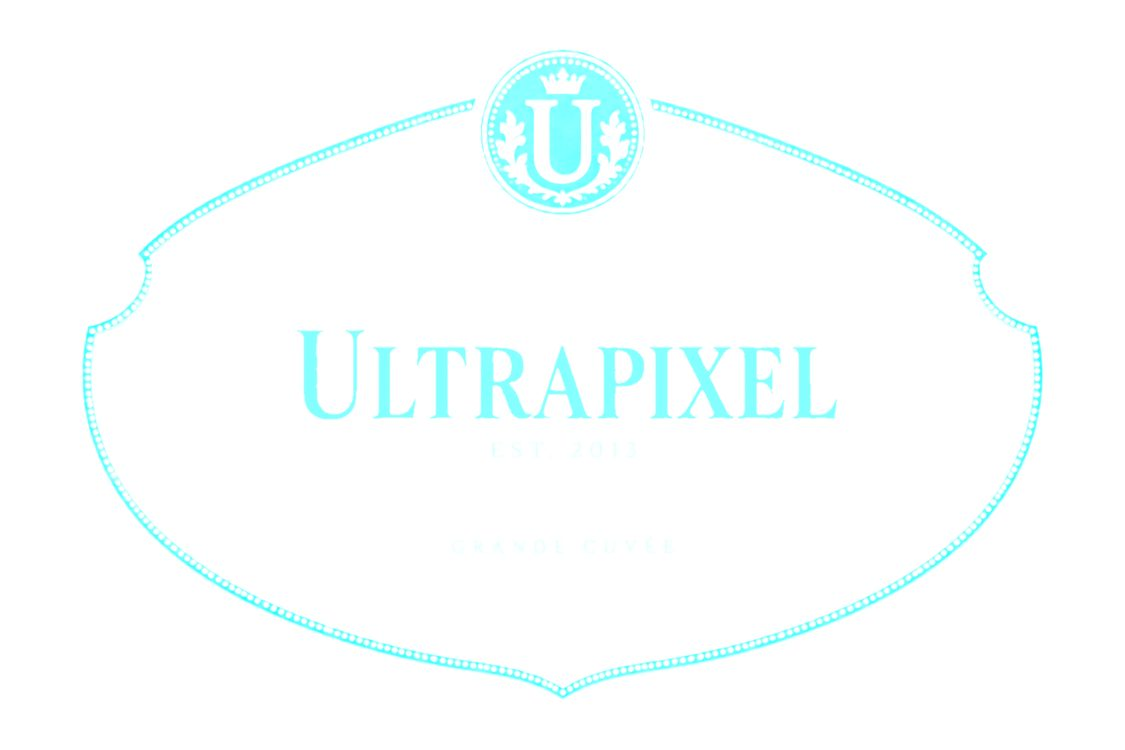
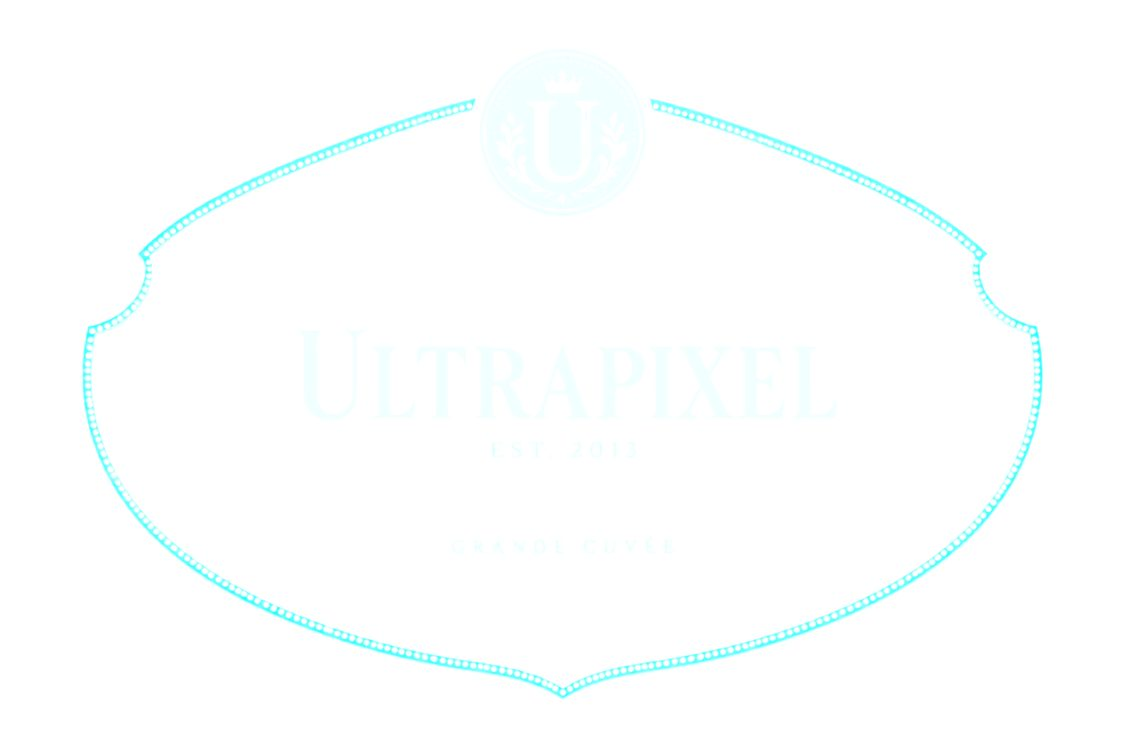
French film: visible screen-printing pass, colour-check points inside the label
Claude-Session: https://claude.ai/code/session_01BG1W2YxVwjxrMvYbMgt4bm

Changed region(s): [[0.2489, 0.4293, 0.7467, 0.5827], [0.4044, 0.0613, 0.5911, 0.3067]]

diff --git a/fr/index.html b/fr/index.html
@@ -160,10 +160,7 @@
     <div class="ribbon" id="ribbon" style="background:linear-gradient(100deg,#7A5A1C,#C99A2E 25%,#FFF3C4 48%,#C99A2E 62%,#7A5A1C)"></div>
     <div class="sq" id="sq"></div>
     <div class="scan" id="scan"></div>
-    <div class="qc" style="left:12%;top:24%" data-y=".24"></div>
-    <div class="qc" style="left:54%;top:53%" data-y=".53"></div>
-    <div class="qc" style="left:16%;top:72%" data-y=".72"></div>
-   </div>
+<div class="qc" style="left:30%;top:31%" data-y="0.31"></div><div class="qc" style="left:61%;top:52%" data-y="0.52"></div><div class="qc" style="left:27%;top:70%" data-y="0.7"></div>   </div>
   </div>
 
   <div class="panel hero on" data-c="0"><span class="mono">Label / Material system 001</span><h1>Nous faisons des étiquettes <em>impossibles à ignorer.</em></h1><p>Étiquettes premium et techniques pour les marques exigeantes. Livraison standard et express, partout en France.</p><div class="ctas"><a class="cta pill" href="/fr/work/">Voir des exemples ↗</a><a class="cta pill ghost" href="/fr/samples/">Demander des échantillons ↗</a><a class="cta" href="/fr/contact/">Nous contacter →</a></div><div class="sys"><span class="mi">Substrate / Digital / Screen / Foil / Relief / Cut</span><span class="mi dim">Vins et spiritueux · Alimentaire · Cosmétique · Nutraceutique · Pharma · Industrie et chimie</span></div></div>

diff --git a/de/index.html b/de/index.html
@@ -160,10 +160,7 @@
     <div class="ribbon" id="ribbon" style="background:linear-gradient(100deg,#7A5A1C,#C99A2E 25%,#FFF3C4 48%,#C99A2E 62%,#7A5A1C)"></div>
     <div class="sq" id="sq"></div>
     <div class="scan" id="scan"></div>
-    <div class="qc" style="left:12%;top:24%" data-y=".24"></div>
-    <div class="qc" style="left:54%;top:53%" data-y=".53"></div>
-    <div class="qc" style="left:16%;top:72%" data-y=".72"></div>
-   </div>
+<div class="qc" style="left:12%;top:24%" data-y="0.24"></div><div class="qc" style="left:54%;top:53%" data-y="0.53"></div><div class="qc" style="left:16%;top:72%" data-y="0.72"></div>   </div>
   </div>
 
   <div class="panel hero on" data-c="0"><span class="mono">Label / Material system 001</span><h1>Wir machen Etiketten, <em>die man nicht übersehen kann.</em></h1><p>Hochwertige und technische Etiketten, entwickelt in Italien für Marken in ganz Europa.</p><div class="ctas"><a class="cta pill" href="/de/work/">Arbeiten ansehen ↗</a><a class="cta pill ghost" href="/de/samples/">Muster anfordern ↗</a><a class="cta" href="/de/contact/">Kontakt aufnehmen →</a></div><div class="sys"><span class="mi">Substrate / Digital / Screen / Foil / Relief / Cut</span><span class="mi dim">Wein und Spirituosen · Lebensmittel · Kosmetik · Nahrungsergänzung · Pharma · Industrie und Chemie</span></div></div>

diff --git a/index.html b/index.html
@@ -161,10 +161,7 @@
     <div class="ribbon" id="ribbon" style="background:linear-gradient(100deg,#7A5A1C,#C99A2E 25%,#FFF3C4 48%,#C99A2E 62%,#7A5A1C)"></div>
     <div class="sq" id="sq"></div>
     <div class="scan" id="scan"></div>
-    <div class="qc" style="left:12%;top:24%" data-y=".24"></div>
-    <div class="qc" style="left:54%;top:53%" data-y=".53"></div>
-    <div class="qc" style="left:16%;top:72%" data-y=".72"></div>
-   </div>
+<div class="qc" style="left:12%;top:24%" data-y="0.24"></div><div class="qc" style="left:54%;top:53%" data-y="0.53"></div><div class="qc" style="left:16%;top:72%" data-y="0.72"></div>   </div>
   </div>
 
   <div class="panel hero on" data-c="0"><span class="mono">Label / Material system 001</span><h1>Facciamo etichette <em>impossibili da ignorare.</em></h1><p>Etichette premium e tecniche progettate in Italia per marchi in tutta Europa.</p><div class="ctas"><a class="cta pill" href="/work/">Guarda i lavori ↗</a><a class="cta pill ghost" href="/samples/">Richiedi campioni ↗</a><a class="cta" href="/contact/">Parla con noi →</a></div><div class="sys"><span class="mi">Substrate / Digital / Screen / Foil / Relief / Cut</span><span class="mi dim">Vino e distillati · Alimentare · Cosmetica · Nutraceutica · Farmaceutico · Industriale e chimico</span></div></div>

diff --git a/en/index.html b/en/index.html
@@ -160,10 +160,7 @@
     <div class="ribbon" id="ribbon" style="background:linear-gradient(100deg,#7A5A1C,#C99A2E 25%,#FFF3C4 48%,#C99A2E 62%,#7A5A1C)"></div>
     <div class="sq" id="sq"></div>
     <div class="scan" id="scan"></div>
-    <div class="qc" style="left:12%;top:24%" data-y=".24"></div>
-    <div class="qc" style="left:54%;top:53%" data-y=".53"></div>
-    <div class="qc" style="left:16%;top:72%" data-y=".72"></div>
-   </div>
+<div class="qc" style="left:12%;top:24%" data-y="0.24"></div><div class="qc" style="left:54%;top:53%" data-y="0.53"></div><div class="qc" style="left:16%;top:72%" data-y="0.72"></div>   </div>
   </div>
 
   <div class="panel hero on" data-c="0"><span class="mono">Label / Material system 001</span><h1>We make labels <em>impossible to ignore.</em></h1><p>Premium and technical labels engineered in Italy for brands across Europe.</p><div class="ctas"><a class="cta pill" href="/en/work/">Explore our work ↗</a><a class="cta pill ghost" href="/en/samples/">Request samples ↗</a><a class="cta" href="/en/contact/">Talk to us →</a></div><div class="sys"><span class="mi">Substrate / Digital / Screen / Foil / Relief / Cut</span><span class="mi dim">Wine &amp; Spirits · Food · Cosmetics · Nutraceuticals · Pharma · Industrial &amp; Chemical</span></div></div>

diff --git a/src/film.html b/src/film.html
@@ -25,10 +25,7 @@
     <div class="ribbon" id="ribbon" style="background:linear-gradient(100deg,#7A5A1C,#C99A2E 25%,#FFF3C4 48%,#C99A2E 62%,#7A5A1C)"></div>
     <div class="sq" id="sq"></div>
     <div class="scan" id="scan"></div>
-    <div class="qc" style="left:12%;top:24%" data-y=".24"></div>
-    <div class="qc" style="left:54%;top:53%" data-y=".53"></div>
-    <div class="qc" style="left:16%;top:72%" data-y=".72"></div>
-   </div>
+{{QC}}   </div>
   </div>
 
   {{HERO}}

diff --git a/src/procfr.py b/src/procfr.py
@@ -39,7 +39,8 @@ gold=keep[cc]
 ink=L&(v<.52)&~gold
 # screen relief = the house name
 box=np.zeros((H,W),bool);box[int(.40*H):int(.60*H),int(.22*W):int(.78*W)]=True
-screen=cv2.morphologyEx((ink&box).astype(np.uint8),cv2.MORPH_CLOSE,np.ones((3,3),np.uint8))>0
+yy,xx=np.mgrid[0:H,0:W];med=((xx-752)**2+(yy-163)**2)<122**2      # the medallion ground is screen-printed too
+screen=cv2.morphologyEx((ink&(box|med)).astype(np.uint8),cv2.MORPH_CLOSE,np.ones((3,3),np.uint8))>0
 n,cc,st,cen=cv2.connectedComponentsWithStats(screen.astype(np.uint8));screen[:]=False
 for i in range(1,n):
     if st[i,4]>600: screen|=(cc==i)
@@ -62,7 +63,13 @@ def save(name,bgr,a,q=86):
     rgba=np.dstack([bgr[...,::-1],np.clip(a*255,0,255).astype(np.uint8)]);Image.fromarray(rgba).save('a/'+name,quality=q,method=5)
 Image.fromarray(paper[...,::-1]).save('a/sheet.jpg',quality=84)
 save('paper.webp',paper,la);save('matrix.webp',paper,1-la)
-save('gold.webp',src,ga*la);save('screen.webp',src,sa*la);save('final.webp',src,la,90)
+scm=screen.astype(np.float32)
+bev=np.clip(scm-np.roll(np.roll(scm,3,0),3,1),0,1);bev=cv2.GaussianBlur(bev,(0,0),1.1)          # light catching the top-left edges
+shd=np.clip(scm-np.roll(np.roll(scm,-3,0),-3,1),0,1);shd=cv2.GaussianBlur(shd,(0,0),1.2)
+sheen=(.5+.5*np.sin((xx*.9+yy*1.7)/46.0))**6
+scr=src.astype(np.float32)*.82+np.array([150,190,170.])*(bev*.75+sheen*.16*scm)[...,None]-60*shd[...,None]
+scr=np.clip(scr,0,255).astype(np.uint8)
+save('gold.webp',src,ga*la);save('screen.webp',scr,sa*la);save('final.webp',src,la,90)
 c=max(cnts,key=cv2.contourArea);c=cv2.approxPolyDP(c,1.2,True)[:,0]
 open('a/die.txt','w').write('M'+' L'.join(f'{p[0]},{p[1]}' for p in c)+' Z');print('pts',len(c))
 def over(b,f,a):a=a[...,None];return (b*(1-a)+f*a)
@@ -73,12 +80,12 @@ dk=np.array([src[...,c][screen].mean() for c in range(3)])*.95
 flatink=cv2.GaussianBlur(srcf,(0,0),1.2)
 P=over(paper.astype(np.float32),och,ga*la)
 P=over(P,flatink,ia*la)
-P=over(P,np.broadcast_to(dk,(H,W,3)).astype(np.float32),sa*la)
+P=over(P,(np.broadcast_to(dk,(H,W,3))*.42+paper*.58).astype(np.float32),sa*la)   # printed as a light flat base; the screen pass makes it dense
 cv2.imwrite('pflat.jpg',P.astype(np.uint8))
 ratio=np.clip(P/np.maximum(paper.astype(np.float32),1),0,1)[...,::-1]
 k=1-ratio.max(2);d=np.maximum(1-k,1e-3);cmy=np.clip((1-ratio-k[...,None])/d[...,None],0,1)
 one=np.ones_like(k)
 def sv(name,rgb):Image.fromarray((np.clip(np.dstack(rgb),0,1)*255).astype(np.uint8)).resize((1125,750),Image.LANCZOS).save('a/'+name,quality=82)
 sv('sepC.jpg',[1-cmy[...,0],one,one]);sv('sepM.jpg',[one,1-cmy[...,1],one]);sv('sepY.jpg',[one,one,1-cmy[...,2]]);sv('sepK.jpg',[1-k,1-k,1-k])
-s0=paper.astype(np.float32);s1=P;s2=over(s1,srcf,ga*la);s3=over(s2,srcf,sa*la);s4=over(s3,srcf,la)
+s0=paper.astype(np.float32);s1=P;s2=over(s1,srcf,ga*la);s3=over(s2,scr.astype(np.float32),sa*la);s4=over(s3,srcf,la)
 cv2.imwrite('states.jpg',np.vstack([np.hstack([s0,s1,s2]),np.hstack([s3,s4,srcf])]).astype(np.uint8)[::2,::2])

diff --git a/build.py b/build.py
@@ -74,8 +74,8 @@ LABELS = {
 
 # Scroll-film label per language. g = bottle w,h / label centre x,y in the bottle / flat label w,h / end squeeze x,y
 # (when the bottle is a photo that already wears the label, the flat label is squeezed onto it and faded out).
-FILM = {"": {"a": "/assets", "vb": "0 0 1120 1402", "die": "src/die.txt", "g": [387, 1026, 193.5, 643, 300, 375.5, 1, 1], "sw": 720, "sz": "(max-width:899px) 62vw, 620px"},
-        "fr": {"a": "/assets/fr", "vb": "0 0 1500 1000", "die": "src/die-fr.txt", "g": [333, 1026, 167.8, 767.8, 450, 300, 0.79, 1.208], "sw": 900, "sz": "(max-width:899px) 70vw, 800px"}}
+FILM = {"": {"a": "/assets", "vb": "0 0 1120 1402", "die": "src/die.txt", "g": [387, 1026, 193.5, 643, 300, 375.5, 1, 1], "sw": 720, "sz": "(max-width:899px) 62vw, 620px", "qc": [(12, 24), (54, 53), (16, 72)]},
+        "fr": {"a": "/assets/fr", "vb": "0 0 1500 1000", "die": "src/die-fr.txt", "g": [333, 1026, 167.8, 767.8, 450, 300, 0.79, 1.208], "sw": 900, "sz": "(max-width:899px) 70vw, 800px", "qc": [(30, 31), (61, 52), (27, 70)]}}
 PUB = {}   # launch builds: language -> public base URL of that language (set in build())
 
 
@@ -260,7 +260,7 @@ def home_ml(C, P):
            f'#film .shadow{{left:{fv["g"][2] - fv["g"][4] * .4}px;top:{fv["g"][3] - fv["g"][5] * .38}px;width:{fv["g"][4] * .8}px;height:{fv["g"][5] * .8}px;border-radius:46%;filter:blur(30px)}}'
            f'#film.rdy #m0{{background-image:url({fv["a"]}/sheet.jpg)}}#film.rdy .relit{{-webkit-mask-image:url({fv["a"]}/final.webp);mask-image:url({fv["a"]}/final.webp)}}#film.rdy .glint{{-webkit-mask-image:url({fv["a"]}/gold.webp);mask-image:url({fv["a"]}/gold.webp)}}'
            f'#film.rdy .curve{{-webkit-mask-image:url({fv["a"]}/final.webp);mask-image:url({fv["a"]}/final.webp)}}</style>') if C["lang"] in FILM else ""
-    film = (rd("src/film.html").replace("{{SRCSET}}", f'{fv["a"]}/final-s.webp {fv["sw"]}w, {fv["a"]}/final.webp {fv["vb"].split()[2]}w').replace("{{SIZES}}", fv["sz"]).replace("{{A}}", fv["a"]).replace("{{VB}}", fv["vb"]).replace("{{DIE}}", rd(fv["die"]).strip())
+    film = (rd("src/film.html").replace("{{SRCSET}}", f'{fv["a"]}/final-s.webp {fv["sw"]}w, {fv["a"]}/final.webp {fv["vb"].split()[2]}w').replace("{{SIZES}}", fv["sz"]).replace("{{QC}}", "".join(f'<div class="qc" style="left:{x}%;top:{y}%" data-y="{y / 100}"></div>' for x, y in fv["qc"])).replace("{{A}}", fv["a"]).replace("{{VB}}", fv["vb"]).replace("{{DIE}}", rd(fv["die"]).strip())
             .replace("{{G}}", ",".join(str(x) for x in fv["g"])).replace("{{GEO}}", geo).replace("{{HERO}}", hero).replace("{{RAIL}}", rail).replace("{{PANELS}}", panels)
             .replace("{{SCROLL}}", e(ui["scroll"])).replace("{{MATS}}", e(json.dumps(fm["mats"] + fm["mats"][:1], ensure_ascii=False))))
     an = h["anatomy"]
